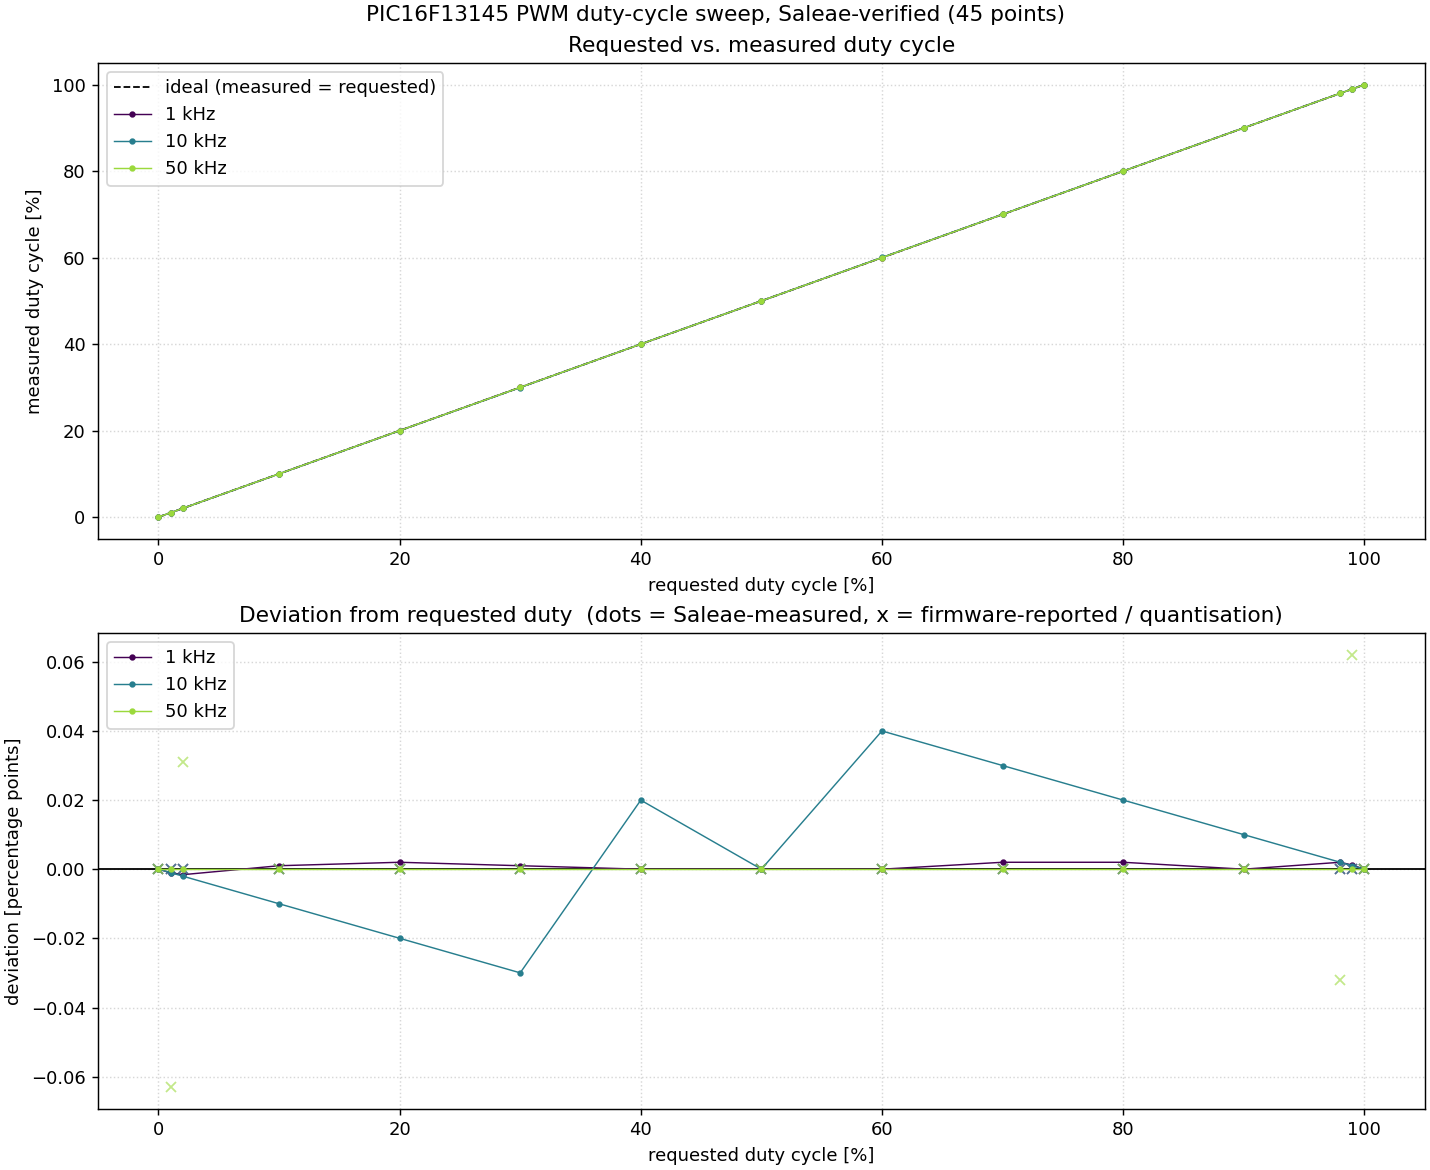
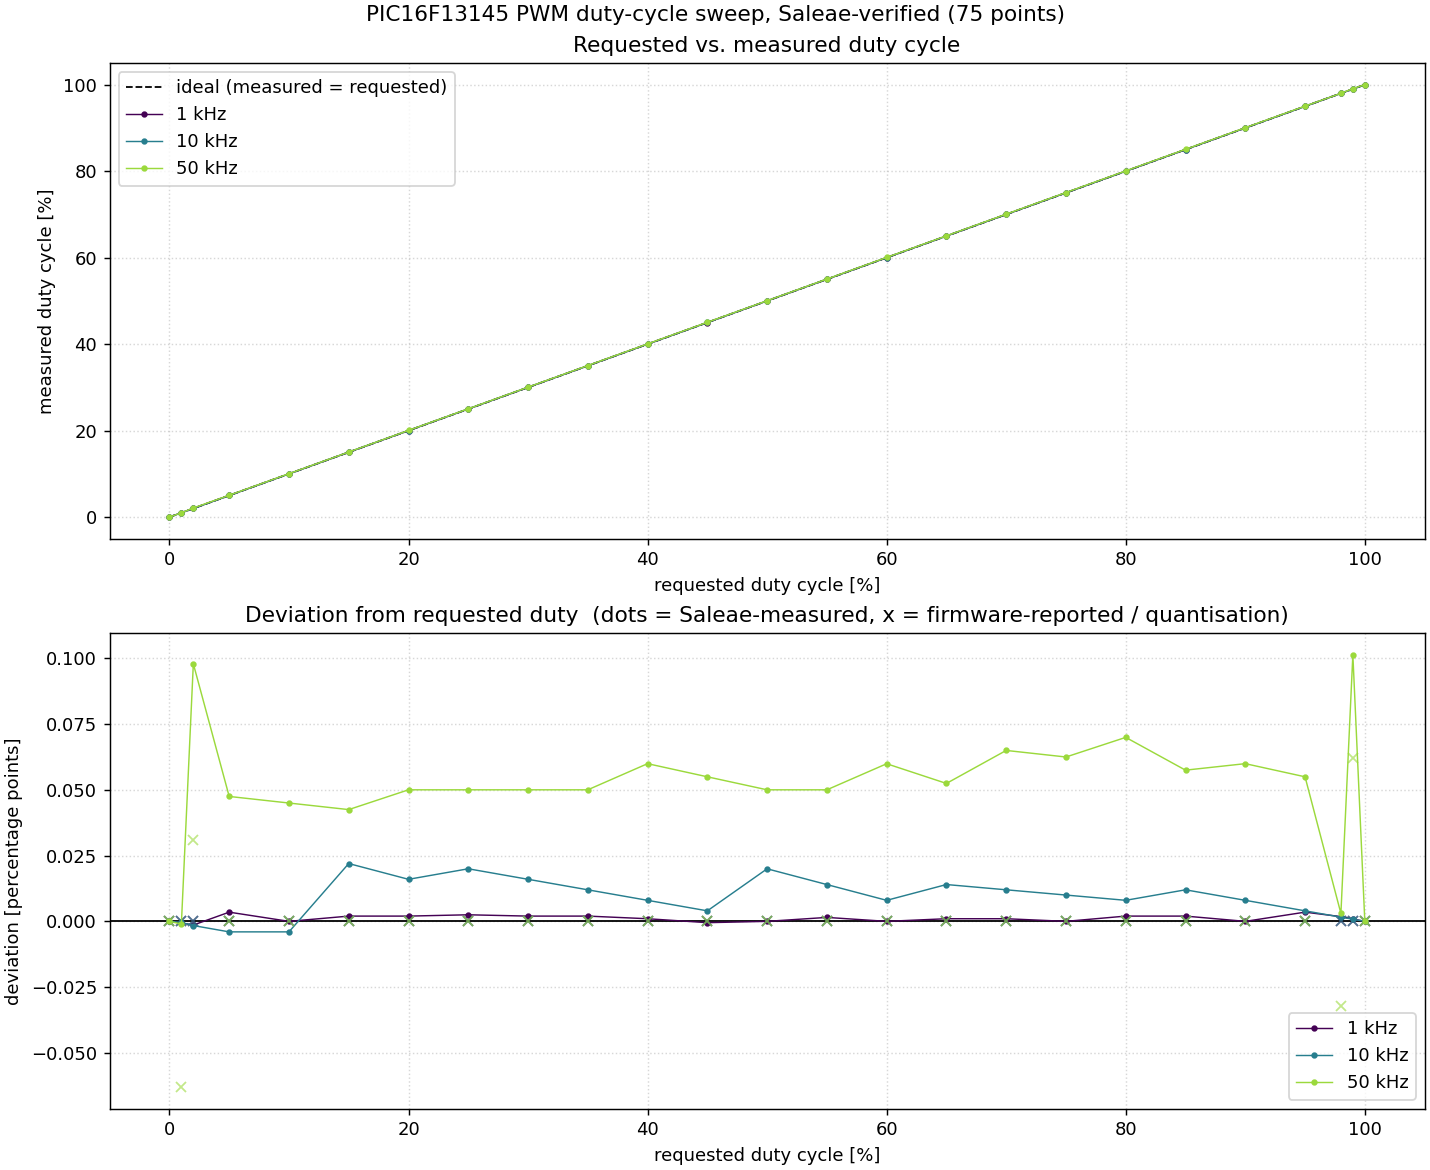
duty_sweep: adaptive sample rate for fine duty resolution
The Saleae duty resolution is one sample per period (frequency / sample_rate),
so a fixed 10 MS/s only resolved ~0.5 pp at 50 kHz and rounded the firmware's
0.156 pp quantisation away. --sample-rate now defaults to auto: per frequency it
picks the smallest valid rate giving >= 2000 samples/period, capped at the Logic
8 maximum of 100 MS/s (probed). Resolution is now ~0.05 pp at 50 kHz.

Regenerated duty_sweep.png/csv; updated the README duty-sweep section.

diff --git a/report.html b/report.html
@@ -24,4 +24,4 @@ tr.res td:first-child{font-weight:600;width:34%}
 .mono{font-family:Consolas,monospace}
 img{max-width:100%;border:1px solid var(--line);border-radius:6px;margin:8px 0}
 footer{padding:14px 28px;color:#57606a;font-size:12px;border-top:1px solid var(--line)}
-</style></head><body><header class="ok"><h1>Loop firmware — CI report <span class="badge b-ok">PASS</span></h1><div class="meta">Date: <b>2026-06-14 12:01:49</b> &nbsp;|&nbsp; Port: <b>COM12</b> &nbsp;|&nbsp; Firmware: <b>Loop firmware | build Jun 14 2026 00:59:48</b> &nbsp;|&nbsp; Logic analyzer: <b>DeviceType.LOGIC_8</b></div></header><main><h2>Summary</h2><table><tr><th>Suite</th><th>Result</th><th>Cases</th></tr><tr><td>Build &amp; flash</td><td><span class="badge b-ok">PASS</span></td><td>2/2 passed</td></tr><tr><td>Regression (serial)</td><td><span class="badge b-ok">PASS</span></td><td>4/4 passed</td></tr><tr><td>Smoke test (Saleae)</td><td><span class="badge b-ok">PASS</span></td><td>5/5 passed</td></tr></table><h2>Build &amp; flash <span class="badge b-ok">PASS</span></h2><p class="desc">Compile with XC8 and program the target over ICSP.</p><table><tr><th>Test</th><th>Details</th></tr><tr class="res"><td>Build (XC8 via build.bat) <span class="badge b-ok">PASS</span></td><td>compiled<ul class="checks"><li class="ok">[PASS] build.bat exit 0 and linked</li></ul></td></tr><tr class="res"><td>Flash (MPLAB MDB over ICSP) <span class="badge b-ok">PASS</span></td><td>programmed out\Loop\default.hex<ul class="checks"><li class="ok">[PASS] Program succeeded</li></ul></td></tr></table><h2>Regression (serial) <span class="badge b-ok">PASS</span></h2><p class="desc">Console behaviour verified over the serial port only.</p><table><tr><th>Test</th><th>Details</th></tr><tr class="res"><td>Input validation &amp; boundaries <span class="badge b-ok">PASS</span></td><td>8/8 replies correct<ul class="checks"><li class="ok">[PASS] frequency 100 Hz rejected (&lt; 244)</li><li class="ok">[PASS] frequency 9 MHz rejected (&gt; 4 MHz)</li><li class="ok">[PASS] valid frequency accepted</li><li class="ok">[PASS] duty 150 % clamped to 100 %</li><li class="ok">[PASS] negative duty rejected</li><li class="ok">[PASS] non-numeric duty rejected</li><li class="ok">[PASS] unknown command reported</li><li class="ok">[PASS] bad subcommand -&gt; usage hint</li></ul></td></tr><tr class="res"><td>Line editor &amp; history <span class="badge b-ok">PASS</span></td><td>cursor edit + Backspace + Up/Down history<ul class="checks"><li class="ok">[PASS] mid-line insert (ac &lt;Left&gt; b -&gt; abc)</li><li class="ok">[PASS] mid-line backspace (abc &lt;Left&gt; &lt;BS&gt; -&gt; ac)</li><li class="ok">[PASS] history recall (Up Up Enter re-runs a past command)</li></ul></td></tr><tr class="res"><td>RX stress (rapid command streaming) <span class="badge b-ok">PASS</span></td><td>30 commands at ~56 cmd/s, all parsed without loss<ul class="checks"><li class="ok">[PASS] 30/30 rapid commands acknowledged</li></ul></td></tr><tr class="res"><td>Reset / power-on defaults <span class="badge b-ok">PASS</span></td><td>reset reboots and restores defaults<ul class="checks"><li class="ok">[PASS] device rebooted (banner reappeared)</li><li class="ok">[PASS] channel A back OFF after reset</li><li class="ok">[PASS] frequency back to 1000 Hz default</li></ul></td></tr></table><h2>Smoke test (Saleae) <span class="badge b-ok">PASS</span></h2><p class="desc">PWM frequency and duty measured directly on RC0/RC1.</p><table><tr><th>Test</th><th>Details</th></tr><tr class="res"><td>1000 Hz, A=25.0% (on), B=75.0% (on) <span class="badge b-ok">PASS</span></td><td>firmware freq 1000.0 Hz; RC0/RC1 measured on the pin<ul class="checks"><li class="ok">[PASS] RC0 freq — measured 999.201 Hz, expected 1000.000 Hz (tol 30.0 Hz)</li><li class="ok">[PASS] RC0 duty — measured 25.002 %, expected 25.000 % (tol 2.0 %)</li><li class="ok">[PASS] RC1 freq — measured 999.201 Hz, expected 1000.000 Hz (tol 30.0 Hz)</li><li class="ok">[PASS] RC1 duty — measured 75.000 %, expected 75.000 % (tol 2.0 %)</li></ul><table class="sub"><tr><th>Check</th><th>measured</th><th>expected (firmware)</th><th>tol</th><th>result</th></tr><tr><td>RC0 freq</td><td>999.201 Hz</td><td>1000.000 Hz</td><td>30.0 Hz</td><td>PASS</td></tr><tr><td>RC0 duty</td><td>25.002 %</td><td>25.000 %</td><td>2.0 %</td><td>PASS</td></tr><tr><td>RC1 freq</td><td>999.201 Hz</td><td>1000.000 Hz</td><td>30.0 Hz</td><td>PASS</td></tr><tr><td>RC1 duty</td><td>75.000 %</td><td>75.000 %</td><td>2.0 %</td><td>PASS</td></tr></table></td></tr><tr class="res"><td>5000 Hz, A=10.0% (on), B=50.0% (on) <span class="badge b-ok">PASS</span></td><td>firmware freq 5000.0 Hz; RC0/RC1 measured on the pin<ul class="checks"><li class="ok">[PASS] RC0 freq — measured 4995.005 Hz, expected 5000.000 Hz (tol 150.0 Hz)</li><li class="ok">[PASS] RC0 duty — measured 9.995 %, expected 10.000 % (tol 2.0 %)</li><li class="ok">[PASS] RC1 freq — measured 4995.005 Hz, expected 5000.000 Hz (tol 150.0 Hz)</li><li class="ok">[PASS] RC1 duty — measured 50.000 %, expected 50.000 % (tol 2.0 %)</li></ul><table class="sub"><tr><th>Check</th><th>measured</th><th>expected (firmware)</th><th>tol</th><th>result</th></tr><tr><td>RC0 freq</td><td>4995.005 Hz</td><td>5000.000 Hz</td><td>150.0 Hz</td><td>PASS</td></tr><tr><td>RC0 duty</td><td>9.995 %</td><td>10.000 %</td><td>2.0 %</td><td>PASS</td></tr><tr><td>RC1 freq</td><td>4995.005 Hz</td><td>5000.000 Hz</td><td>150.0 Hz</td><td>PASS</td></tr><tr><td>RC1 duty</td><td>50.000 %</td><td>50.000 %</td><td>2.0 %</td><td>PASS</td></tr></table></td></tr><tr class="res"><td>20000 Hz, A=33.3% (on), B=66.7% (on) <span class="badge b-ok">PASS</span></td><td>firmware freq 20000.0 Hz; RC0/RC1 measured on the pin<ul class="checks"><li class="ok">[PASS] RC0 freq — measured 20000.000 Hz, expected 20000.000 Hz (tol 600.0 Hz)</li><li class="ok">[PASS] RC0 duty — measured 33.200 %, expected 33.250 % (tol 2.0 %)</li><li class="ok">[PASS] RC1 freq — measured 20000.000 Hz, expected 20000.000 Hz (tol 600.0 Hz)</li><li class="ok">[PASS] RC1 duty — measured 66.800 %, expected 66.750 % (tol 2.0 %)</li></ul><table class="sub"><tr><th>Check</th><th>measured</th><th>expected (firmware)</th><th>tol</th><th>result</th></tr><tr><td>RC0 freq</td><td>20000.000 Hz</td><td>20000.000 Hz</td><td>600.0 Hz</td><td>PASS</td></tr><tr><td>RC0 duty</td><td>33.200 %</td><td>33.250 %</td><td>2.0 %</td><td>PASS</td></tr><tr><td>RC1 freq</td><td>20000.000 Hz</td><td>20000.000 Hz</td><td>600.0 Hz</td><td>PASS</td></tr><tr><td>RC1 duty</td><td>66.800 %</td><td>66.750 %</td><td>2.0 %</td><td>PASS</td></tr></table></td></tr><tr class="res"><td>1000 Hz, A=50.0% (on), B=0.0% (off) <span class="badge b-ok">PASS</span></td><td>firmware freq 1000.0 Hz; RC0/RC1 measured on the pin<ul class="checks"><li class="ok">[PASS] RC0 freq — measured 999.101 Hz, expected 1000.000 Hz (tol 30.0 Hz)</li><li class="ok">[PASS] RC0 duty — measured 50.000 %, expected 50.000 % (tol 2.0 %)</li><li class="ok">[PASS] RC1 disabled -&gt; line low — level=0, cycles=0</li></ul><table class="sub"><tr><th>Check</th><th>measured</th><th>expected (firmware)</th><th>tol</th><th>result</th></tr><tr><td>RC0 freq</td><td>999.101 Hz</td><td>1000.000 Hz</td><td>30.0 Hz</td><td>PASS</td></tr><tr><td>RC0 duty</td><td>50.000 %</td><td>50.000 %</td><td>2.0 %</td><td>PASS</td></tr><tr><td>RC1 disabled</td><td>level 0</td><td>low</td><td>-</td><td>PASS</td></tr></table></td></tr><tr class="res"><td>Duty held at 30.0% across frequencies <span class="badge b-ok">PASS</span></td><td>changing frequency must not disturb the duty cycle<ul class="checks"><li class="ok">[PASS] duty at 1000 Hz — measured 30.00% (set 30.0%, firmware 30.00%)</li><li class="ok">[PASS] duty at 5000 Hz — measured 30.02% (set 30.0%, firmware 30.00%)</li><li class="ok">[PASS] duty at 20000 Hz — measured 30.00% (set 30.0%, firmware 30.00%)</li></ul><table class="sub"><tr><th>Frequency</th><th>measured</th><th>firmware</th><th>set</th><th>result</th></tr><tr><td>1000 Hz</td><td>30.00%</td><td>30.00%</td><td>30.0%</td><td>PASS</td></tr><tr><td>5000 Hz</td><td>30.02%</td><td>30.00%</td><td>30.0%</td><td>PASS</td></tr><tr><td>20000 Hz</td><td>30.00%</td><td>30.00%</td><td>30.0%</td><td>PASS</td></tr></table></td></tr></table><h2>Plots</h2><div><b>Frequency sweep</b><br><img src="freq_sweep.png"></div><div><b>Duty-cycle sweep</b><br><img src="duty_sweep.png"></div></main><footer>Generated by testreport.py</footer></body></html>
+</style></head><body><header class="ok"><h1>Loop firmware — CI report <span class="badge b-ok">PASS</span></h1><div class="meta">Date: <b>2026-06-14 13:13:08</b> &nbsp;|&nbsp; Port: <b>COM12</b> &nbsp;|&nbsp; Firmware: <b>Loop firmware | build Jun 14 2026 00:59:48</b> &nbsp;|&nbsp; Logic analyzer: <b>DeviceType.LOGIC_8</b></div></header><main><h2>Summary</h2><table><tr><th>Suite</th><th>Result</th><th>Cases</th></tr><tr><td>Build &amp; flash</td><td><span class="badge b-ok">PASS</span></td><td>2/2 passed</td></tr><tr><td>Regression (serial)</td><td><span class="badge b-ok">PASS</span></td><td>4/4 passed</td></tr><tr><td>Smoke test (Saleae)</td><td><span class="badge b-ok">PASS</span></td><td>6/6 passed</td></tr></table><h2>Build &amp; flash <span class="badge b-ok">PASS</span></h2><p class="desc">Compile with XC8 and program the target over ICSP.</p><table><tr><th>Test</th><th>Details</th></tr><tr class="res"><td>Build (XC8 via build.bat) <span class="badge b-ok">PASS</span></td><td>compiled<ul class="checks"><li class="ok">[PASS] build.bat exit 0 and linked</li></ul></td></tr><tr class="res"><td>Flash (MPLAB MDB over ICSP) <span class="badge b-ok">PASS</span></td><td>programmed out\Loop\default.hex<ul class="checks"><li class="ok">[PASS] Program succeeded</li></ul></td></tr></table><h2>Regression (serial) <span class="badge b-ok">PASS</span></h2><p class="desc">Console behaviour verified over the serial port only.</p><table><tr><th>Test</th><th>Details</th></tr><tr class="res"><td>Input validation &amp; boundaries <span class="badge b-ok">PASS</span></td><td>8/8 replies correct<ul class="checks"><li class="ok">[PASS] frequency 100 Hz rejected (&lt; 244)</li><li class="ok">[PASS] frequency 9 MHz rejected (&gt; 4 MHz)</li><li class="ok">[PASS] valid frequency accepted</li><li class="ok">[PASS] duty 150 % clamped to 100 %</li><li class="ok">[PASS] negative duty rejected</li><li class="ok">[PASS] non-numeric duty rejected</li><li class="ok">[PASS] unknown command reported</li><li class="ok">[PASS] bad subcommand -&gt; usage hint</li></ul></td></tr><tr class="res"><td>Line editor &amp; history <span class="badge b-ok">PASS</span></td><td>cursor edit + Backspace + Up/Down history<ul class="checks"><li class="ok">[PASS] mid-line insert (ac &lt;Left&gt; b -&gt; abc)</li><li class="ok">[PASS] mid-line backspace (abc &lt;Left&gt; &lt;BS&gt; -&gt; ac)</li><li class="ok">[PASS] history recall (Up Up Enter re-runs a past command)</li></ul></td></tr><tr class="res"><td>RX stress (rapid command streaming) <span class="badge b-ok">PASS</span></td><td>30 commands at ~56 cmd/s, all parsed without loss<ul class="checks"><li class="ok">[PASS] 30/30 rapid commands acknowledged</li></ul></td></tr><tr class="res"><td>Reset / power-on defaults <span class="badge b-ok">PASS</span></td><td>reset reboots and restores defaults<ul class="checks"><li class="ok">[PASS] device rebooted (banner reappeared)</li><li class="ok">[PASS] channel A back OFF after reset</li><li class="ok">[PASS] frequency back to 1000 Hz default</li></ul></td></tr></table><h2>Smoke test (Saleae) <span class="badge b-ok">PASS</span></h2><p class="desc">PWM frequency and duty measured directly on RC0/RC1.</p><table><tr><th>Test</th><th>Details</th></tr><tr class="res"><td>1000 Hz, A=25.0% (on), B=75.0% (on) <span class="badge b-ok">PASS</span></td><td>firmware freq 1000.0 Hz; RC0/RC1 measured on the pin<ul class="checks"><li class="ok">[PASS] RC0 freq — measured 999.201 Hz, expected 1000.000 Hz (tol 30.0 Hz)</li><li class="ok">[PASS] RC0 duty — measured 25.000 %, expected 25.000 % (tol 2.0 %)</li><li class="ok">[PASS] RC1 freq — measured 999.201 Hz, expected 1000.000 Hz (tol 30.0 Hz)</li><li class="ok">[PASS] RC1 duty — measured 75.000 %, expected 75.000 % (tol 2.0 %)</li></ul><table class="sub"><tr><th>Check</th><th>measured</th><th>expected (firmware)</th><th>tol</th><th>result</th></tr><tr><td>RC0 freq</td><td>999.201 Hz</td><td>1000.000 Hz</td><td>30.0 Hz</td><td>PASS</td></tr><tr><td>RC0 duty</td><td>25.000 %</td><td>25.000 %</td><td>2.0 %</td><td>PASS</td></tr><tr><td>RC1 freq</td><td>999.201 Hz</td><td>1000.000 Hz</td><td>30.0 Hz</td><td>PASS</td></tr><tr><td>RC1 duty</td><td>75.000 %</td><td>75.000 %</td><td>2.0 %</td><td>PASS</td></tr></table></td></tr><tr class="res"><td>5000 Hz, A=10.0% (on), B=50.0% (on) <span class="badge b-ok">PASS</span></td><td>firmware freq 5000.0 Hz; RC0/RC1 measured on the pin<ul class="checks"><li class="ok">[PASS] RC0 freq — measured 4995.005 Hz, expected 5000.000 Hz (tol 150.0 Hz)</li><li class="ok">[PASS] RC0 duty — measured 9.990 %, expected 10.000 % (tol 2.0 %)</li><li class="ok">[PASS] RC1 freq — measured 4995.005 Hz, expected 5000.000 Hz (tol 150.0 Hz)</li><li class="ok">[PASS] RC1 duty — measured 50.000 %, expected 50.000 % (tol 2.0 %)</li></ul><table class="sub"><tr><th>Check</th><th>measured</th><th>expected (firmware)</th><th>tol</th><th>result</th></tr><tr><td>RC0 freq</td><td>4995.005 Hz</td><td>5000.000 Hz</td><td>150.0 Hz</td><td>PASS</td></tr><tr><td>RC0 duty</td><td>9.990 %</td><td>10.000 %</td><td>2.0 %</td><td>PASS</td></tr><tr><td>RC1 freq</td><td>4995.005 Hz</td><td>5000.000 Hz</td><td>150.0 Hz</td><td>PASS</td></tr><tr><td>RC1 duty</td><td>50.000 %</td><td>50.000 %</td><td>2.0 %</td><td>PASS</td></tr></table></td></tr><tr class="res"><td>20000 Hz, A=33.3% (on), B=66.7% (on) <span class="badge b-ok">PASS</span></td><td>firmware freq 20000.0 Hz; RC0/RC1 measured on the pin<ul class="checks"><li class="ok">[PASS] RC0 freq — measured 19960.080 Hz, expected 20000.000 Hz (tol 600.0 Hz)</li><li class="ok">[PASS] RC0 duty — measured 33.333 %, expected 33.250 % (tol 2.0 %)</li><li class="ok">[PASS] RC1 freq — measured 19960.080 Hz, expected 20000.000 Hz (tol 600.0 Hz)</li><li class="ok">[PASS] RC1 duty — measured 66.800 %, expected 66.750 % (tol 2.0 %)</li></ul><table class="sub"><tr><th>Check</th><th>measured</th><th>expected (firmware)</th><th>tol</th><th>result</th></tr><tr><td>RC0 freq</td><td>19960.080 Hz</td><td>20000.000 Hz</td><td>600.0 Hz</td><td>PASS</td></tr><tr><td>RC0 duty</td><td>33.333 %</td><td>33.250 %</td><td>2.0 %</td><td>PASS</td></tr><tr><td>RC1 freq</td><td>19960.080 Hz</td><td>20000.000 Hz</td><td>600.0 Hz</td><td>PASS</td></tr><tr><td>RC1 duty</td><td>66.800 %</td><td>66.750 %</td><td>2.0 %</td><td>PASS</td></tr></table></td></tr><tr class="res"><td>1000 Hz, A=50.0% (on), B=0.0% (off) <span class="badge b-ok">PASS</span></td><td>firmware freq 1000.0 Hz; RC0/RC1 measured on the pin<ul class="checks"><li class="ok">[PASS] RC0 freq — measured 999.101 Hz, expected 1000.000 Hz (tol 30.0 Hz)</li><li class="ok">[PASS] RC0 duty — measured 50.000 %, expected 50.000 % (tol 2.0 %)</li><li class="ok">[PASS] RC1 disabled -&gt; line low — level=0, cycles=0</li></ul><table class="sub"><tr><th>Check</th><th>measured</th><th>expected (firmware)</th><th>tol</th><th>result</th></tr><tr><td>RC0 freq</td><td>999.101 Hz</td><td>1000.000 Hz</td><td>30.0 Hz</td><td>PASS</td></tr><tr><td>RC0 duty</td><td>50.000 %</td><td>50.000 %</td><td>2.0 %</td><td>PASS</td></tr><tr><td>RC1 disabled</td><td>level 0</td><td>low</td><td>-</td><td>PASS</td></tr></table></td></tr><tr class="res"><td>Duty held at 30.0% across frequencies <span class="badge b-ok">PASS</span></td><td>changing frequency must not disturb the duty cycle<ul class="checks"><li class="ok">[PASS] duty at 1000 Hz — measured 30.00% (set 30.0%, firmware 30.00%)</li><li class="ok">[PASS] duty at 5000 Hz — measured 30.00% (set 30.0%, firmware 30.00%)</li><li class="ok">[PASS] duty at 20000 Hz — measured 30.00% (set 30.0%, firmware 30.00%)</li></ul><table class="sub"><tr><th>Frequency</th><th>measured</th><th>firmware</th><th>set</th><th>result</th></tr><tr><td>1000 Hz</td><td>30.00%</td><td>30.00%</td><td>30.0%</td><td>PASS</td></tr><tr><td>5000 Hz</td><td>30.00%</td><td>30.00%</td><td>30.0%</td><td>PASS</td></tr><tr><td>20000 Hz</td><td>30.00%</td><td>30.00%</td><td>30.0%</td><td>PASS</td></tr></table></td></tr><tr class="res"><td>Channel independence (RC0 vs RC1) <span class="badge b-ok">PASS</span></td><td>duty and on/off are per-channel; one must not disturb the other<ul class="checks"><li class="ok">[PASS] baseline A=25% B=75% — RC0=25.0%, RC1=75.0%</li><li class="ok">[PASS] change A-&gt;80%, B stays 75% — RC0=80.0%, RC1=75.0%</li><li class="ok">[PASS] change B-&gt;10%, A stays 80% — RC0=80.0%, RC1=10.0%</li><li class="ok">[PASS] A off, B stays 10% — RC0=low(cyc=0), RC1=10.0%</li><li class="ok">[PASS] B off, A stays 80% — RC0=80.0%, RC1=low(cyc=0)</li></ul><table class="sub"><tr><th>Step</th><th>set A</th><th>meas RC0</th><th>set B</th><th>meas RC1</th><th>result</th></tr><tr><td>baseline A=25% B=75%</td><td>25%</td><td>25.0%</td><td>75%</td><td>75.0%</td><td>PASS</td></tr><tr><td>change A-&gt;80%, B stays 75%</td><td>80%</td><td>80.0%</td><td>75%</td><td>75.0%</td><td>PASS</td></tr><tr><td>change B-&gt;10%, A stays 80%</td><td>80%</td><td>80.0%</td><td>10%</td><td>10.0%</td><td>PASS</td></tr><tr><td>A off, B stays 10%</td><td>off</td><td>low(cyc=0)</td><td>10%</td><td>10.0%</td><td>PASS</td></tr><tr><td>B off, A stays 80%</td><td>80%</td><td>80.0%</td><td>off</td><td>low(cyc=0)</td><td>PASS</td></tr></table></td></tr></table><h2>Plots</h2><div><b>Frequency sweep</b><br><img src="freq_sweep.png"></div><div><b>Duty-cycle sweep</b><br><img src="duty_sweep.png"></div></main><footer>Generated by testreport.py</footer></body></html>

diff --git a/duty_sweep.py b/duty_sweep.py
@@ -37,6 +37,20 @@ import project_config
 
 RC0_CH = 0                       # Saleae digital channel wired to RC0 (PWM1)
 
+# Valid Logic 8 digital sample rates (probed: 100 MS/s is the max it accepts).
+VALID_RATES = (10_000_000, 25_000_000, 50_000_000, 100_000_000)
+TARGET_SPP = 2000                # aim for >=2000 samples/period (~0.05 pp duty)
+
+
+def choose_sample_rate(freq, target_spp=TARGET_SPP):
+    """Smallest valid rate giving >= target_spp samples/period (capped at max).
+    The Saleae duty resolution is one sample per period (= freq / sample_rate),
+    so this guarantees a fine enough time resolution per frequency."""
+    for r in VALID_RATES:
+        if r / freq >= target_spp:
+            return r
+    return VALID_RATES[-1]
+
 
 def duty_points(step):
     """Requested duty values 0..100 plus a few near the ends."""
@@ -50,8 +64,10 @@ def run_sweep(args):
 
     freqs = [int(x) for x in args.freqs.split(",") if x.strip()]
     duties = duty_points(args.duty_step)
+    rate_str = "auto (per frequency)" if not args.sample_rate \
+        else f"{args.sample_rate/1e6:.1f} MS/s"
     print(f"Duty sweep at {freqs} Hz, {len(duties)} duty points each, "
-          f"Saleae @ {args.sample_rate/1e6:.1f} MS/s on {args.port}")
+          f"Saleae @ {rate_str} on {args.port}")
 
     console = Console(args.port, echo=False)        # open serial first (fail fast)
     console.cmd("pulse a on")
@@ -74,8 +90,10 @@ def run_sweep(args):
         for f in freqs:
             console.cmd(f"pulse freq {f}")
             duration = max(0.02, 60.0 / f)
-            spp = args.sample_rate / f
-            print(f"\n  f = {f} Hz  ({spp:.0f} samples/period)"
+            sr = args.sample_rate or choose_sample_rate(f)   # 0 => auto per freq
+            spp = sr / f
+            print(f"\n  f = {f} Hz  @ {sr/1e6:.0f} MS/s ({spp:.0f} samples/period,"
+                  f" ~{100.0/spp:.3f} pp duty resolution)"
                   f"{'  COARSE' if spp < 100 else ''}")
             for d in duties:
                 resp = console.cmd(f"pulse a duty {d}")
@@ -83,7 +101,7 @@ def run_sweep(args):
                 fw = float(m.group(1)) if m else float("nan")
 
                 csv_path = capture_freq(manager, device_id, RC0_CH,
-                                        args.sample_rate, duration, capdir)
+                                        sr, duration, capdir)
                 meas = analyze_digital_csv(csv_path, RC0_CH)["duty_pct"]
                 dev = meas - d
                 rows.append((f, d, fw, meas, dev))
@@ -158,8 +176,9 @@ def main():
     ap.add_argument("--freqs", default="1000,10000,50000",
                     help="comma-separated frequencies in Hz")
     ap.add_argument("--duty-step", type=int, default=5, help="duty sweep step in %%")
-    ap.add_argument("--sample-rate", type=int, default=10_000_000,
-                    help="Saleae digital sample rate in S/s (default 10 MS/s)")
+    ap.add_argument("--sample-rate", type=int, default=0,
+                    help="Saleae digital sample rate in S/s; 0 = auto per frequency "
+                         "(>=2000 samples/period, capped at 100 MS/s)")
     ap.add_argument("--device-id", default=None, help="Saleae device id (default: first found)")
     ap.add_argument("--automation-port", type=int, default=10430)
     ap.add_argument("--csv", default=os.path.join(here, "duty_sweep.csv"))

diff --git a/README.md b/README.md
@@ -345,13 +345,19 @@ curves per frequency to show this.
 python duty_sweep.py                          :: default 1/10/50 kHz, show plot
 python duty_sweep.py --freqs 1000,20000,100000
 python duty_sweep.py --duty-step 2            :: finer duty sweep
-python duty_sweep.py --sample-rate 25000000   :: resolve finer steps at high f
+python duty_sweep.py --sample-rate 50000000   :: force a fixed rate instead of auto
 ```
+
+The Saleae's duty resolution is one sample per period (`frequency / sample_rate`),
+so `--sample-rate` defaults to **auto**: per frequency it picks the smallest valid
+rate giving ≥ 2000 samples/period, capped at the Logic 8 maximum of **100 MS/s**.
+That keeps the resolution around **0.05 pp** even at 50 kHz (where a fixed 10 MS/s
+would only resolve ~0.5 pp and round the firmware's 0.156 pp steps away). Pass a
+fixed value to override.
 
 It writes `duty_sweep.csv` and `duty_sweep.png` (requested-vs-measured and the
 deviation in percentage points, with Saleae-measured dots and the firmware's
-quantisation as `x`). Note: at 10 MS/s the Saleae resolves ~0.5 pp at 50 kHz, so
-the firmware's sub-step quantisation there is only visible at a higher sample rate.
+quantisation as `x`).
 
 ![Duty-cycle sweep at 1/10/50 kHz: requested vs. measured duty and the deviation in percentage points](duty_sweep.png)
 
